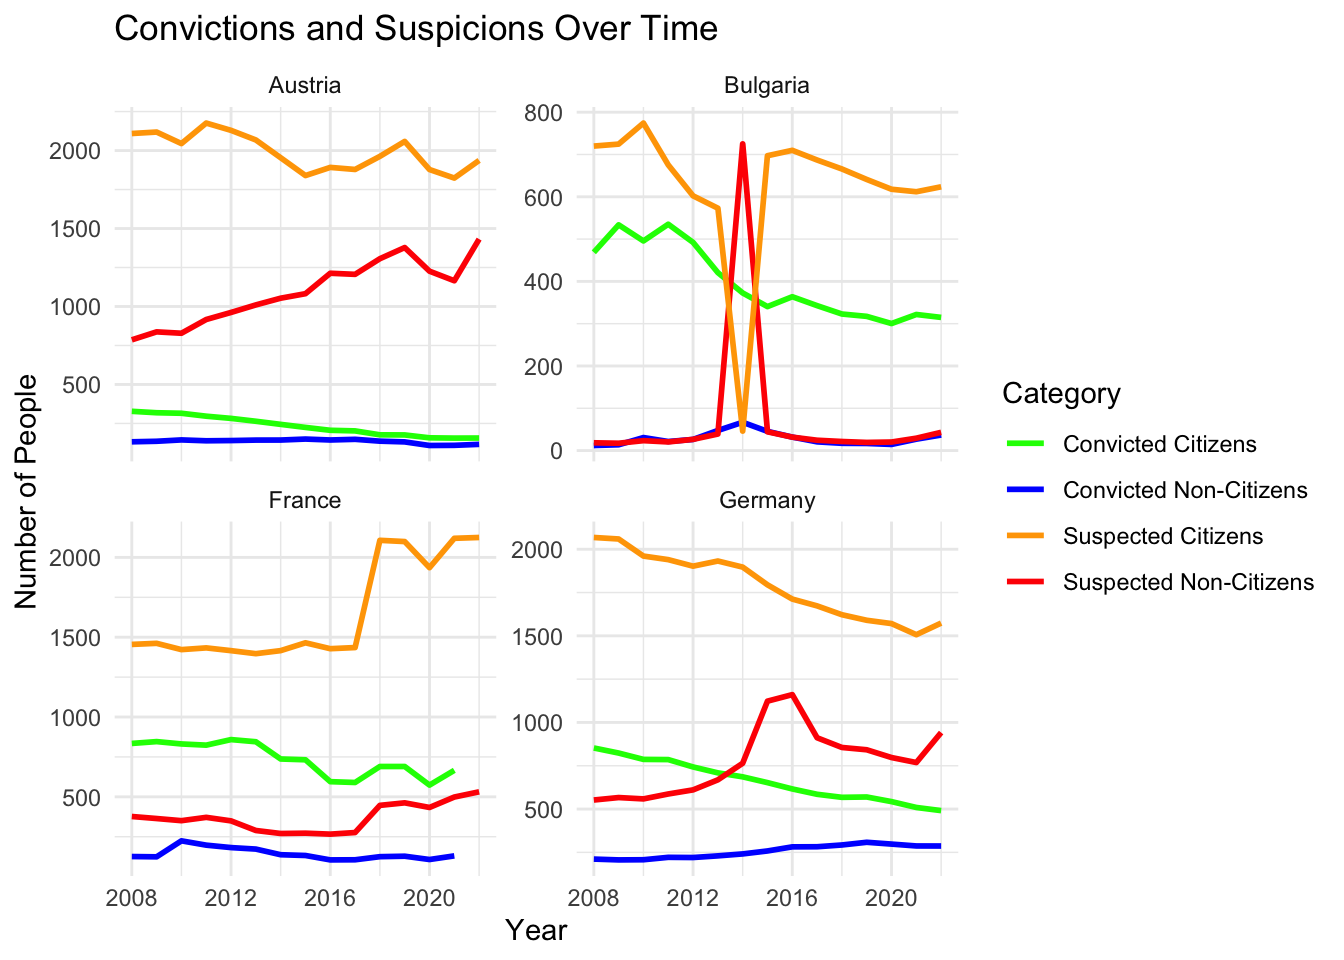
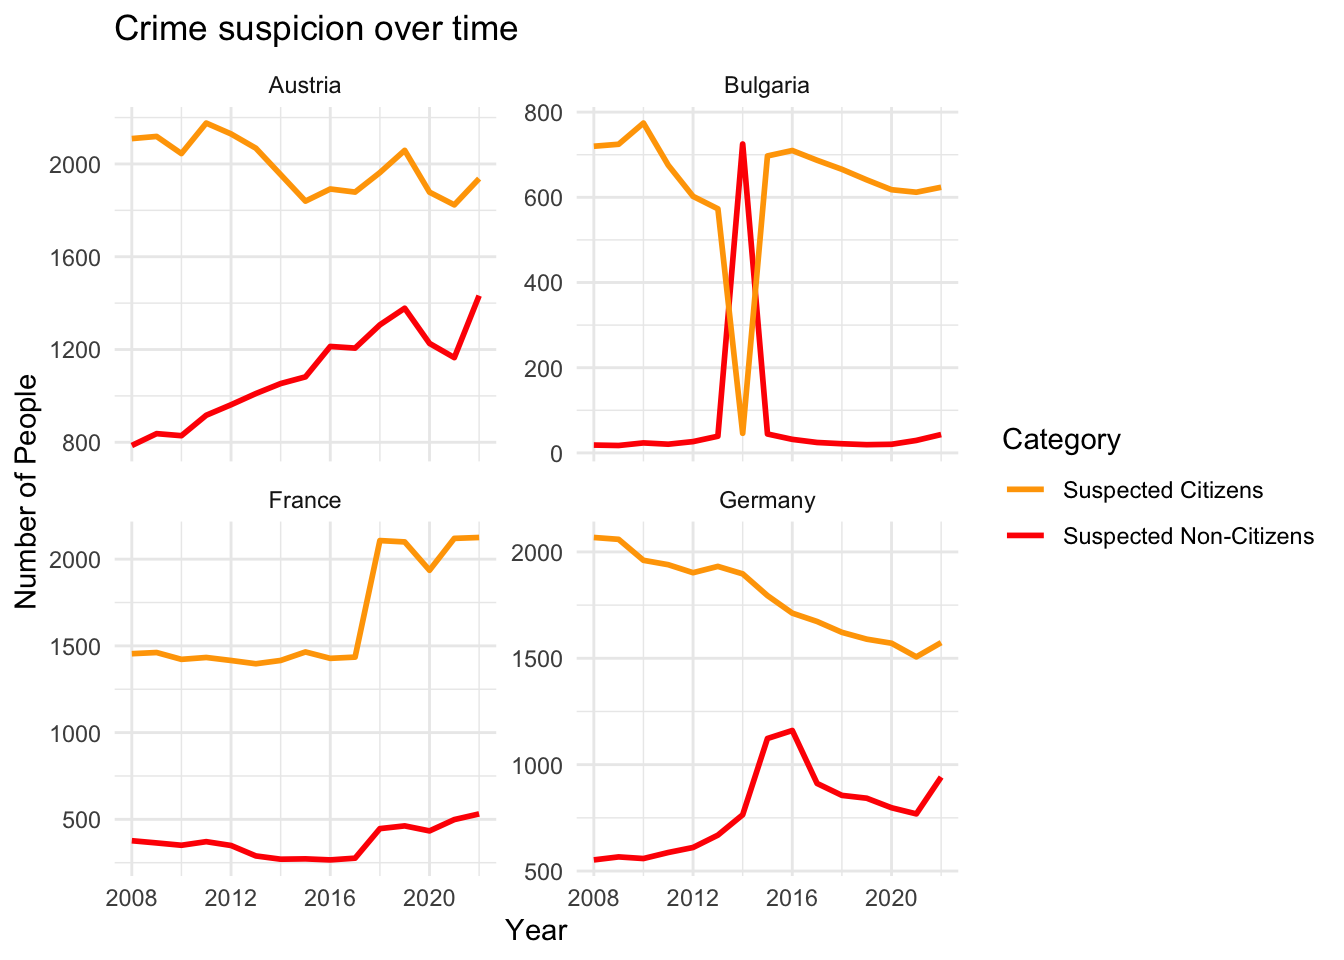
Alex and Serry - under "Target Variable" section, reproduce separate graphs for convition and suspicion instead of one graph.

diff --git a/DataMan_Project.html b/DataMan_Project.html
@@ -8,7 +8,7 @@
 
 <meta name="author" content="Alex Martinez &amp; Serry Ezbidi">
 
-<title>Data-Management-Project</title>
+<title>Crime, Ideology, and Manifestos: A Comparative Study of European Political Trends</title>
 <style>
 code{white-space: pre-wrap;}
 span.smallcaps{font-variant: small-caps;}
@@ -46,7 +46,7 @@ ul.task-list li input[type="checkbox"] {
 
 <header id="title-block-header" class="quarto-title-block default">
 <div class="quarto-title">
-<h1 class="title">Data-Management-Project</h1>
+<h1 class="title">Crime, Ideology, and Manifestos: A Comparative Study of European Political Trends</h1>
 </div>
 
 
@@ -69,7 +69,6 @@ ul.task-list li input[type="checkbox"] {
 </header>
 
 
-<p>Data Management</p>
 <section id="link-to-github" class="level1" data-number="1">
 <h1 data-number="1"><span class="header-section-number">1</span> <strong>Link to GitHub</strong></h1>
 <p><a href="https://github.com/alexmar313/Data-Management-Project.git" target="_blank">GitHub Repository</a></p>
@@ -266,11 +265,8 @@ ul.task-list li input[type="checkbox"] {
 </section>
 <section id="target-variable" class="level1" data-number="8">
 <h1 data-number="8"><span class="header-section-number">8</span> <strong>Target variable</strong></h1>
-<section id="the-change-in-suspicion-and-conviction-rates-of-non-citizens-immigrants." class="level2" data-number="8.1">
-<h2 data-number="8.1" class="anchored" data-anchor-id="the-change-in-suspicion-and-conviction-rates-of-non-citizens-immigrants."><span class="header-section-number">8.1</span> <em>The change in suspicion and conviction rates of non-citizens (immigrants).</em></h2>
-</section>
-<section id="the-change-in-suspicion-and-conviction-rates-of-citizens." class="level2" data-number="8.2">
-<h2 data-number="8.2" class="anchored" data-anchor-id="the-change-in-suspicion-and-conviction-rates-of-citizens."><span class="header-section-number">8.2</span> <em>The change in suspicion and conviction rates of citizens.</em></h2>
+<section id="crime-suspicion-rates-over-time-for-citizens-and-non-citizens-immigrants-for-selected-countries" class="level2" data-number="8.1">
+<h2 data-number="8.1" class="anchored" data-anchor-id="crime-suspicion-rates-over-time-for-citizens-and-non-citizens-immigrants-for-selected-countries"><span class="header-section-number">8.1</span> <em>Crime suspicion rates over time for citizens and non-citizens (immigrants) for selected countries</em></h2>
 <div class="cell">
 <div class="cell-output cell-output-stderr">
 <pre><code>Warning: Using `size` aesthetic for lines was deprecated in ggplot2 3.4.0.
@@ -280,6 +276,18 @@ ul.task-list li input[type="checkbox"] {
 <div>
 <figure class="figure">
 <p><img src="DataMan_Project_files/figure-html/unnamed-chunk-17-1.png" class="img-fluid figure-img" width="672"></p>
+</figure>
+</div>
+</div>
+</div>
+</section>
+<section id="crime-conviction-rates-over-time-for-citizens-and-non-citizens-immigrants-for-selected-countries" class="level2" data-number="8.2">
+<h2 data-number="8.2" class="anchored" data-anchor-id="crime-conviction-rates-over-time-for-citizens-and-non-citizens-immigrants-for-selected-countries"><span class="header-section-number">8.2</span> <em>Crime conviction rates over time for citizens and non-citizens (immigrants) for selected countries</em></h2>
+<div class="cell">
+<div class="cell-output-display">
+<div>
+<figure class="figure">
+<p><img src="DataMan_Project_files/figure-html/unnamed-chunk-18-1.png" class="img-fluid figure-img" width="672"></p>
 </figure>
 </div>
 </div>
